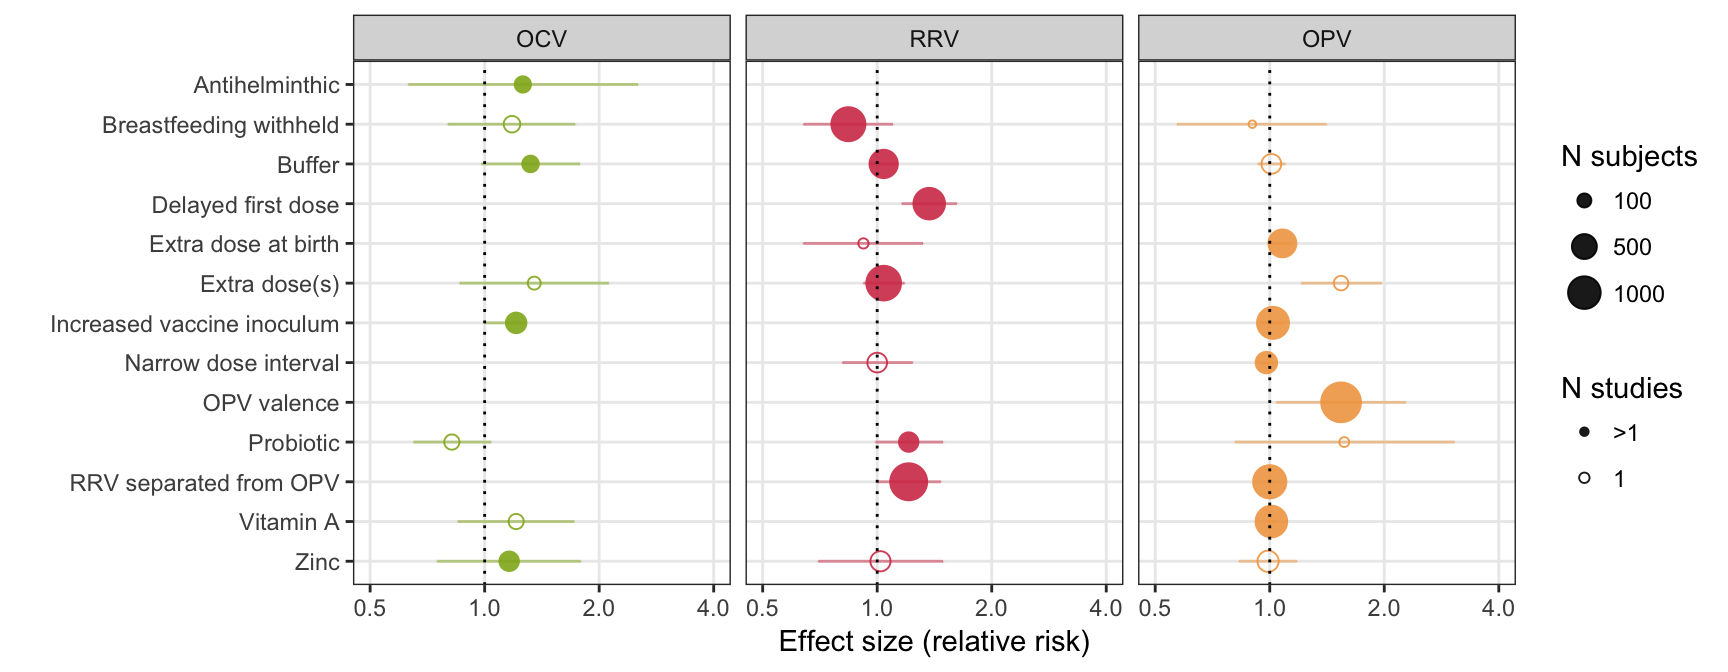
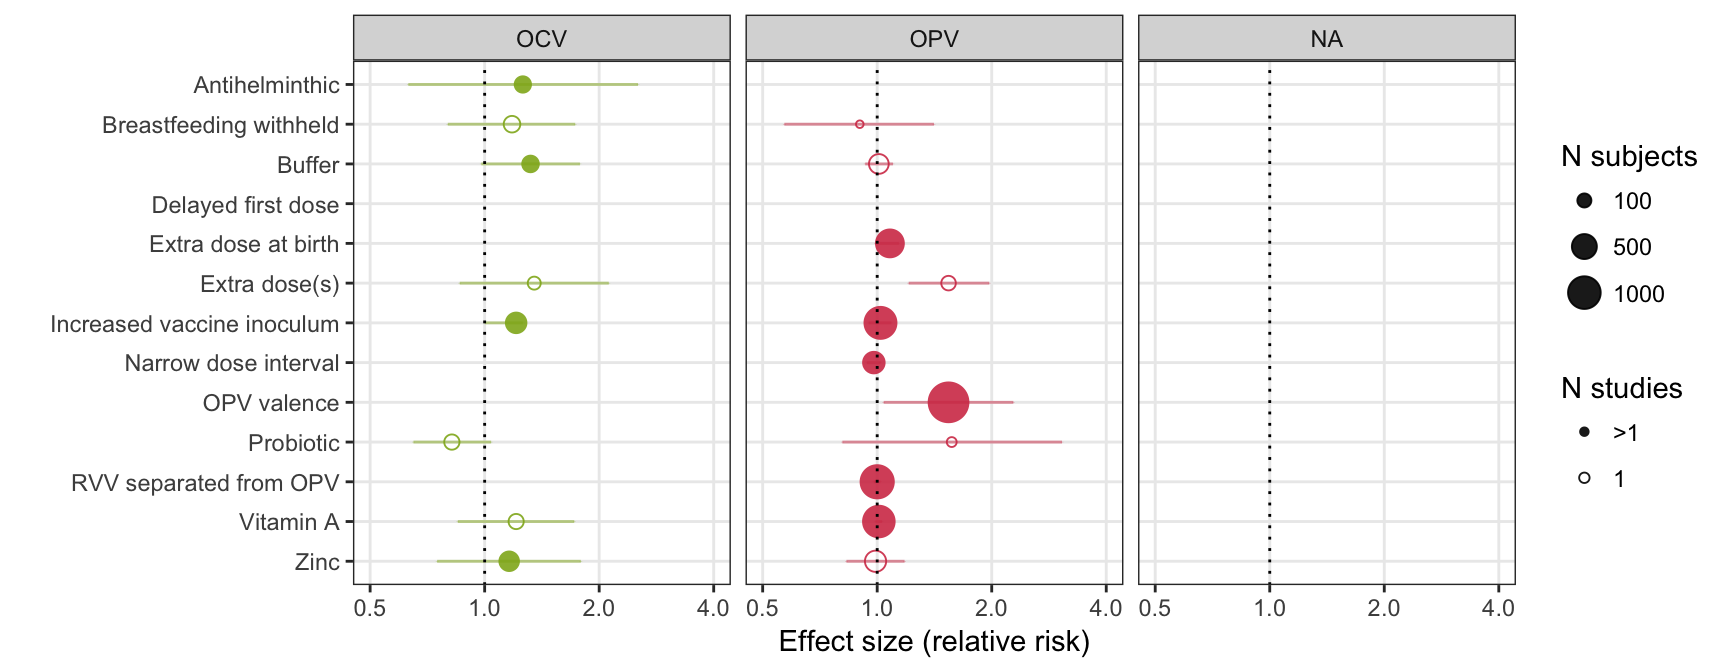
18-June-2018

diff --git a/footnotes.html b/footnotes.html
@@ -275,10 +275,10 @@ $(document).ready(function () {
 
 
 <p><br/> Footnotes</p>
-<p><div id="htmlwidget-d88483fb06da2ab61ebc" style="width:100%;height:auto;" class="datatables html-widget"></div>
-<script type="application/json" data-for="htmlwidget-d88483fb06da2ab61ebc">{"x":{"filter":"none","data":[["1","2","3","4","5","6","7","8"],["Buffer","Buffer","Delayed first dose","Extra dose(s)","Extra dose(s)","OPV valency","Probiotic","RVV separated from OPV"],["Sack (1997) *","Ing (1991) *","Steele (2010) *","10/14 *","Madhi (2010) *","Sutter (2010) *","De Vrese (2005) *","Steele (2010) *"],["This study also examined another buffer, CeraVacx (sodium bicarbonate, trisodium citrate, rice syrup) with identical results. We excluded these data from the forest plot to avoid replication of the control group.","This study also examined the same buffer at a smaller volume (2ml). We excluded these data from the forest plot to avoid replication of the control group.","Intervention and control arm recruited separately. Exact sample sizes were not reported for immunogenicity data and were therefore estimated by assuming that loss-to-follow-up rates reported in Figure 1 of the trial report were evenly distributed across arms.","Study included both a 6/10w and 10/14w dose schedule. The 10/14w schedule was selected as the control group to ensure consistency with other studies and to delineate the effect of extra doses from delayed doses (considered in a separate comparison).","Immunogenicity data extracted from Madhi et al. (Vaccine 2012) and Cunliffe et al. (Vaccine 2012). Exact sample sizes were not reported for Malawi data; we therefore assumed that the 85 RVV recipients were distributed 1:1 across the 2-dose and 3-dose schedules (n = 42 per arm) and used the reported seroconversion rates (47.2% and 57.1%) to estimate the number of infants who seroconverted.","This study also included an arm comparing bOPV with tOPV. We excluded these data from the forest plot to avoid replication of the control group.","This study also examined another probiotic, Lactobacillus casei CRL431 10^10 cfu, with similar results. We excluded these data from the forest plot to avoid replication of the control group.","Exact sample sizes were not reported for immunogenicity data and were therefore estimated by assuming that loss-to-follow-up rates reported in Figure 1 of the trial report were evenly distributed across arms."]],"container":"<table class=\"display\">\n  <thead>\n    <tr>\n      <th> <\/th>\n      <th>Intervention<\/th>\n      <th>Study<\/th>\n      <th>Notes<\/th>\n    <\/tr>\n  <\/thead>\n<\/table>","options":{"searching":false,"paging":false,"order":[],"autoWidth":false,"orderClasses":false,"columnDefs":[{"orderable":false,"targets":0}]}},"evals":[],"jsHooks":[]}</script> <br/> Acronyms</p>
-<div id="htmlwidget-0dc55f9a59f633e02b36" style="width:100%;height:auto;" class="datatables html-widget"></div>
-<script type="application/json" data-for="htmlwidget-0dc55f9a59f633e02b36">{"x":{"filter":"none","data":[["1","2","3","4","5","6","7","8","9","10","11","12","13","14","15","16","17","18","19","20","21","22","23","24","25"],["1h","4w","50k","Bbb01","BF","(c)","(f)","IPV","IU","Lc ATCC","LGG","OCV","OPV","bOPV","mOPV","tOPV","RVV","RV1","RV5","Ty21a","U/r","Vit A","w/","w/h","w/o"],["One hour","Four weeks","50,000","Bifidobacterium breve 01","Breastfeeding","Centrifuged","Filtered","Inactivated poliovirus vaccine","International Units","Lactobacillus casei ATCC","Lactobacillus GG","Oral cholera vaccine","Oral poliovirus vaccine","Bivalent OPV","Monovalent OPV","Trivalent OPV","Rotavirus vaccine","Rotarix monovalent vaccine","RotaTeq pentavalent vaccine","Live attenuated strain of salmonella typhi","Unrestricted","Vitamin A","With","Withheld","Without"]],"container":"<table class=\"display\">\n  <thead>\n    <tr>\n      <th> <\/th>\n      <th>Acronym<\/th>\n      <th>Notes<\/th>\n    <\/tr>\n  <\/thead>\n<\/table>","options":{"searching":false,"paging":false,"order":[],"autoWidth":false,"orderClasses":false,"columnDefs":[{"orderable":false,"targets":0}]}},"evals":[],"jsHooks":[]}</script>
+<p><div id="htmlwidget-2ac3c1150aaa6fbae428" style="width:100%;height:auto;" class="datatables html-widget"></div>
+<script type="application/json" data-for="htmlwidget-2ac3c1150aaa6fbae428">{"x":{"filter":"none","data":[["1","2","3","4","5","6","7","8"],["Buffer","Buffer","Delayed first dose","Extra dose(s)","Extra dose(s)","OPV valency","Probiotic","RVV separated from OPV"],["Sack (1997) *","Ing (1991) *","Steele (2010) *","10/14 *","Madhi (2010) *","Sutter (2010) *","De Vrese (2005) *","Steele (2010) *"],["This study also examined another buffer, CeraVacx (sodium bicarbonate, trisodium citrate, rice syrup) with identical results. We excluded these data from the forest plot to avoid replication of the control group.","This study also examined the same buffer at a smaller volume (2ml). We excluded these data from the forest plot to avoid replication of the control group.","Intervention and control arm recruited separately. Exact sample sizes were not reported for immunogenicity data and were therefore estimated by assuming that loss-to-follow-up rates reported in Figure 1 of the trial report were evenly distributed across arms.","Study included both a 6/10w and 10/14w dose schedule. The 10/14w schedule was selected as the control group to ensure consistency with other studies and to delineate the effect of extra doses from delayed doses (considered in a separate comparison).","Immunogenicity data extracted from Madhi et al. (Vaccine 2012) and Cunliffe et al. (Vaccine 2012). Exact sample sizes were not reported for Malawi data; we therefore assumed that the 85 RVV recipients were distributed 1:1 across the 2-dose and 3-dose schedules (n = 42 per arm) and used the reported seroconversion rates (47.2% and 57.1%) to estimate the number of infants who seroconverted.","This study also included an arm comparing bOPV with tOPV. We excluded these data from the forest plot to avoid replication of the control group.","This study also examined another probiotic, Lactobacillus casei CRL431 10^10 cfu, with similar results. We excluded these data from the forest plot to avoid replication of the control group.","Exact sample sizes were not reported for immunogenicity data and were therefore estimated by assuming that loss-to-follow-up rates reported in Figure 1 of the trial report were evenly distributed across arms."]],"container":"<table class=\"display\">\n  <thead>\n    <tr>\n      <th> <\/th>\n      <th>Intervention<\/th>\n      <th>Study<\/th>\n      <th>Notes<\/th>\n    <\/tr>\n  <\/thead>\n<\/table>","options":{"searching":false,"paging":false,"order":[],"autoWidth":false,"orderClasses":false,"columnDefs":[{"orderable":false,"targets":0}]}},"evals":[],"jsHooks":[]}</script> <br/> Acronyms</p>
+<div id="htmlwidget-69aaf0fcc5a0b2d673bf" style="width:100%;height:auto;" class="datatables html-widget"></div>
+<script type="application/json" data-for="htmlwidget-69aaf0fcc5a0b2d673bf">{"x":{"filter":"none","data":[["1","2","3","4","5","6","7","8","9","10","11","12","13","14","15","16","17","18","19","20","21","22","23","24","25"],["1h","4w","50k","Bbb01","BF","(c)","(f)","IPV","IU","Lc ATCC","LGG","OCV","OPV","bOPV","mOPV","tOPV","RVV","RV1","RV5","Ty21a","U/r","Vit A","w/","w/h","w/o"],["One hour","Four weeks","50,000","Bifidobacterium breve 01","Breastfeeding","Centrifuged","Filtered","Inactivated poliovirus vaccine","International Units","Lactobacillus casei ATCC","Lactobacillus GG","Oral cholera vaccine","Oral poliovirus vaccine","Bivalent OPV","Monovalent OPV","Trivalent OPV","Rotavirus vaccine","Rotarix monovalent vaccine","RotaTeq pentavalent vaccine","Live attenuated strain of salmonella typhi","Unrestricted","Vitamin A","With","Withheld","Without"]],"container":"<table class=\"display\">\n  <thead>\n    <tr>\n      <th> <\/th>\n      <th>Acronym<\/th>\n      <th>Notes<\/th>\n    <\/tr>\n  <\/thead>\n<\/table>","options":{"searching":false,"paging":false,"order":[],"autoWidth":false,"orderClasses":false,"columnDefs":[{"orderable":false,"targets":0}]}},"evals":[],"jsHooks":[]}</script>
 
 
 

diff --git a/summary.html b/summary.html
@@ -266,6 +266,7 @@ $(document).ready(function () {
 </div>
 
 
+<pre><code>## Warning: Removed 9 rows containing missing values (geom_point).</code></pre>
 <p><img src="summary_files/figure-html/unnamed-chunk-1-1.png" width="864" /></p>
 
 
